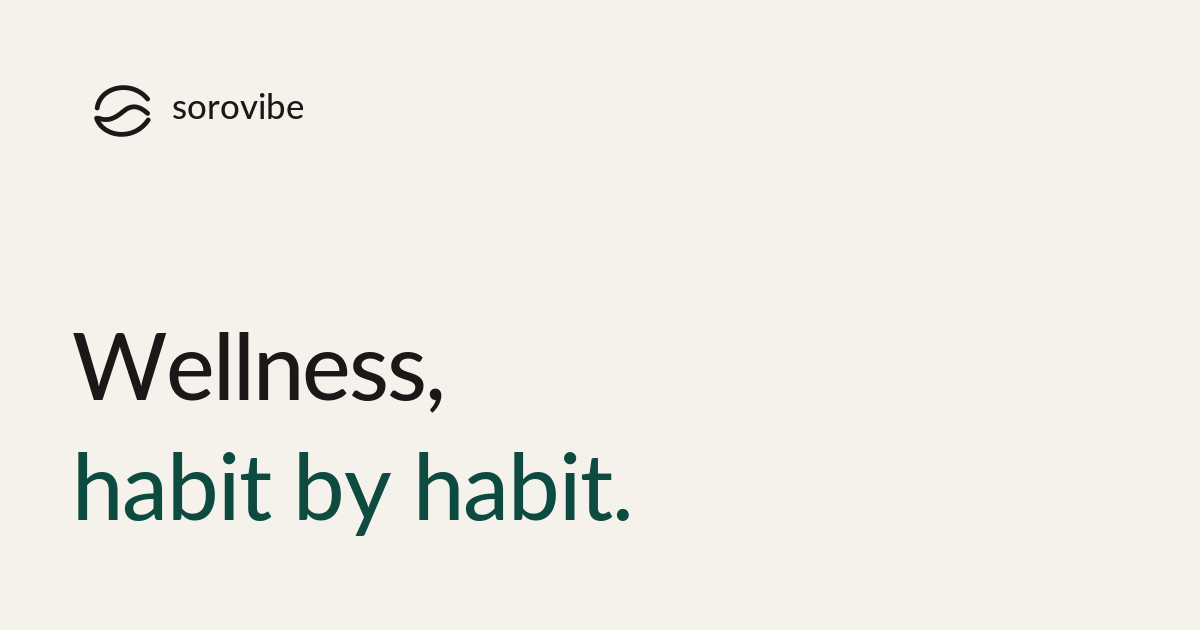
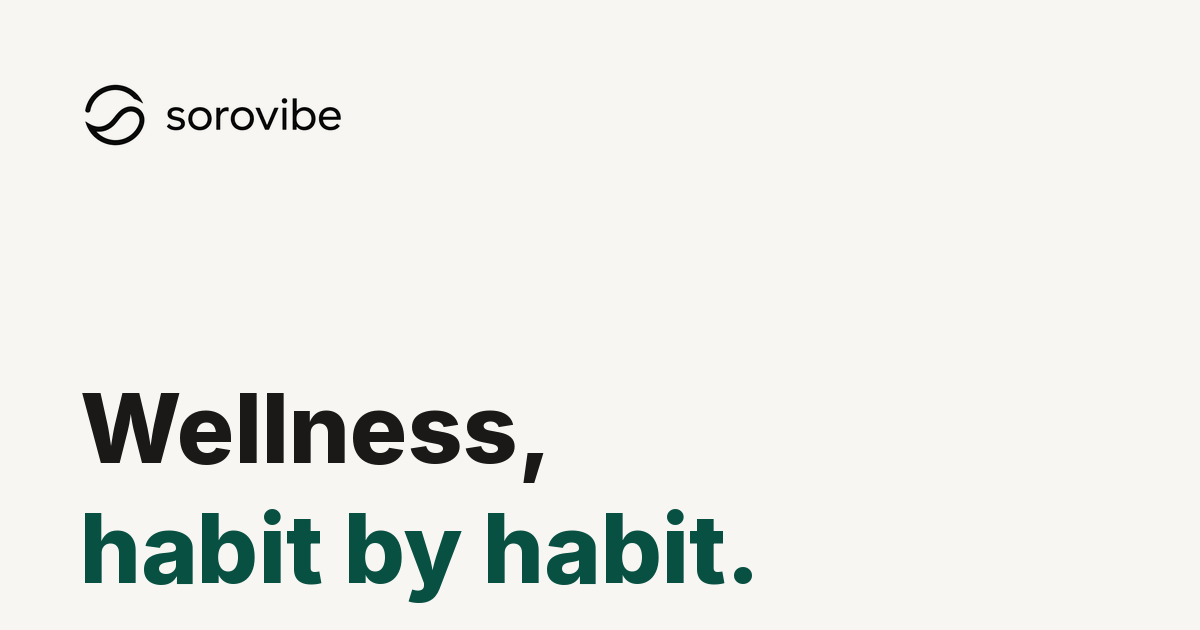
Add files via upload

Changed region(s): [[0.0617, 0.5127, 0.6475, 0.9651], [0.0617, 0.1206, 0.3083, 0.2413]]

diff --git a/privacy.html b/privacy.html
@@ -19,7 +19,10 @@
 <meta name="twitter:card" content="summary_large_image">
 <meta name="twitter:image" content="https://sorovibe.com/og-image.png">
 <link rel="icon" type="image/svg+xml" href="/favicon.svg">
-<link rel="apple-touch-icon" href="/favicon.svg">
+<link rel="icon" type="image/png" sizes="32x32" href="/favicon-32.png">
+<link rel="icon" type="image/png" sizes="192x192" href="/favicon-192.png">
+<link rel="apple-touch-icon" sizes="180x180" href="/apple-touch-icon.png">
+<link rel="shortcut icon" href="/favicon.ico">
 <link rel="preload" href="/fonts/inter-400.woff2" as="font" type="font/woff2" crossorigin>
 <link rel="canonical" href="https://sorovibe.com/privacy.html">
 <link rel="alternate" hreflang="da" href="https://sorovibe.com/privacy.html">
@@ -52,8 +55,9 @@ body{font-family:'Inter',-apple-system,'SF Pro Text','SF Pro Display',system-ui,
 .site-nav.scrolled{border-bottom-color:var(--border);}
 .nav-row{display:flex;align-items:center;justify-content:space-between;gap:14px;max-width:720px;margin:0 auto;padding-left:max(24px,env(safe-area-inset-left));padding-right:max(24px,env(safe-area-inset-right));}
 .brand{display:flex;align-items:center;text-decoration:none;color:var(--text);}
-.brand-logo{height:30px;width:auto;display:block;color:var(--text);}
+.brand-logo{height:30px;width:auto;display:block;}
 @media(max-width:480px){.brand-logo{height:26px;}}
+@media(prefers-color-scheme:dark){.brand-logo{filter:invert(1);}}
 .lang-toggle{display:flex;background:var(--input-bg);border:1px solid var(--border);border-radius:999px;padding:3px;}
 .lang-btn{background:none;border:none;padding:5px 12px;font-size:12px;font-weight:600;color:var(--muted);cursor:pointer;border-radius:999px;font-family:inherit;transition:all .15s;}
 .lang-btn.on{background:var(--card);color:var(--text);box-shadow:0 1px 4px rgba(0,0,0,0.04);}
@@ -87,15 +91,7 @@ body{font-family:'Inter',-apple-system,'SF Pro Text','SF Pro Display',system-ui,
 <header class="site-nav" id="siteNav">
   <div class="nav-row">
     <a href="/" class="brand" aria-label="Sorovibe">
-      <svg class="brand-logo" viewBox="0 0 620 120" fill="none" xmlns="http://www.w3.org/2000/svg" role="img">
-        <title>sorovibe</title>
-        <g transform="translate(36 22)" stroke="currentColor" stroke-width="8" stroke-linecap="round" stroke-linejoin="round" fill="none">
-          <path d="M6 38C9 17 28 4 50 4C66 4 80 11 90 23"/>
-          <path d="M91 58C81 73 65 82 47 82C27 82 10 71 5 55"/>
-          <path d="M8 55C24 61 36 55 49 44C63 32 76 34 90 47"/>
-        </g>
-        <text x="166" y="78" fill="currentColor" font-family="'Inter','Geist','Helvetica Neue',Arial,sans-serif" font-size="58" font-weight="400" letter-spacing="-3.2">sorovibe</text>
-      </svg>
+<img class="brand-logo" src="/assets/sorovibe-logo.png" alt="Sorovibe" width="114" height="30" decoding="sync">
     </a>
     <div class="lang-toggle" role="group" aria-label="Language">
       <button class="lang-btn on" data-set-lang="da">DA</button>

diff --git a/index.html b/index.html
@@ -20,7 +20,10 @@
 <meta name="twitter:image" content="https://sorovibe.com/og-image.png">
 <meta name="twitter:image:alt" content="Sorovibe — Wellness, vane for vane">
 <link rel="icon" type="image/svg+xml" href="/favicon.svg">
-<link rel="apple-touch-icon" href="/favicon.svg">
+<link rel="icon" type="image/png" sizes="32x32" href="/favicon-32.png">
+<link rel="icon" type="image/png" sizes="192x192" href="/favicon-192.png">
+<link rel="apple-touch-icon" sizes="180x180" href="/apple-touch-icon.png">
+<link rel="shortcut icon" href="/favicon.ico">
 <link rel="preload" href="/fonts/inter-400.woff2" as="font" type="font/woff2" crossorigin>
 <link rel="preload" href="/fonts/inter-700.woff2" as="font" type="font/woff2" crossorigin>
 <link rel="canonical" href="https://sorovibe.com/">
@@ -153,8 +156,9 @@ body{font-family:'Inter',-apple-system,'SF Pro Text','SF Pro Display',system-ui,
 .site-nav.scrolled{border-bottom-color:var(--border);}
 .nav-row{display:flex;align-items:center;justify-content:space-between;gap:14px;}
 .brand{display:flex;align-items:center;text-decoration:none;color:var(--text);}
-.brand-logo{height:30px;width:auto;display:block;color:var(--text);}
+.brand-logo{height:30px;width:auto;display:block;}
 @media(max-width:480px){.brand-logo{height:26px;}}
+@media(prefers-color-scheme:dark){.brand-logo{filter:invert(1);}}
 .lang-toggle{display:flex;background:var(--input-bg);border:1px solid var(--border);border-radius:999px;padding:3px;}
 .lang-btn{background:none;border:none;padding:5px 12px;font-size:12px;font-weight:600;color:var(--muted);cursor:pointer;border-radius:999px;font-family:inherit;transition:all .15s;}
 .lang-btn.on{background:var(--card);color:var(--text);box-shadow:var(--shadow-act);}
@@ -346,15 +350,7 @@ body{font-family:'Inter',-apple-system,'SF Pro Text','SF Pro Display',system-ui,
 <header class="site-nav" id="siteNav">
   <div class="wrap nav-row">
     <a href="/" class="brand" aria-label="Sorovibe">
-      <svg class="brand-logo" viewBox="0 0 620 120" fill="none" xmlns="http://www.w3.org/2000/svg" role="img">
-        <title>sorovibe</title>
-        <g transform="translate(36 22)" stroke="currentColor" stroke-width="8" stroke-linecap="round" stroke-linejoin="round" fill="none">
-          <path d="M6 38C9 17 28 4 50 4C66 4 80 11 90 23"/>
-          <path d="M91 58C81 73 65 82 47 82C27 82 10 71 5 55"/>
-          <path d="M8 55C24 61 36 55 49 44C63 32 76 34 90 47"/>
-        </g>
-        <text x="166" y="78" fill="currentColor" font-family="'Inter','Geist','Helvetica Neue',Arial,sans-serif" font-size="58" font-weight="400" letter-spacing="-3.2">sorovibe</text>
-      </svg>
+<img class="brand-logo" src="/assets/sorovibe-logo.png" alt="Sorovibe" width="114" height="30" decoding="sync">
     </a>
     <div class="lang-toggle" role="group" aria-label="Language">
       <button class="lang-btn on" data-set-lang="da">DA</button>
